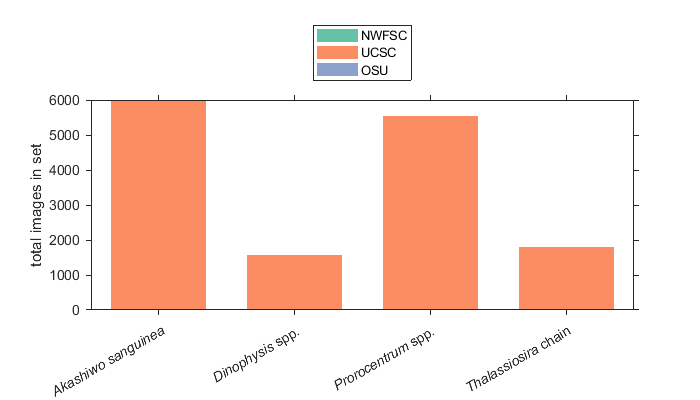
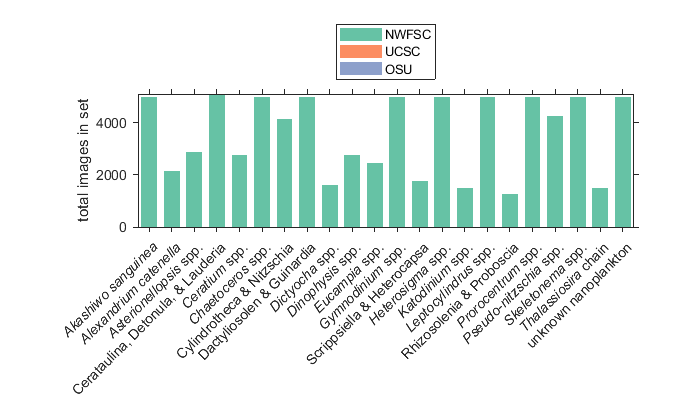
CCCS_NOAA_UCSC_OSU_v4

diff --git a/IFCB-Tools/build_classifier/train_build_classifier.m b/IFCB-Tools/build_classifier/train_build_classifier.m
@@ -3,7 +3,8 @@
 clear;
 filepath='C:\Users\ifcbuser\Documents\GitHub\';
 addpath(genpath(filepath));
-class2useName ='D:\general\config\class2use_12';
+%class2useName ='D:\general\config\class2use_12';
+class2useName ='D:\general\config\class2use_13';
 
 %% Step 1: create SCW and Shimada merged manual and feature file folders to pull from for training set
 mergedpath = 'D:\general\classifier\';
@@ -21,7 +22,7 @@ BUDDpath = 'D:\BuddInlet\';
 merge_manual_feafiles_SHMDA_UCSC_OSU_LAB_BUDD(class2useName,mergedpath,UCSCpath,OSUpath,SHMDApath,LABpath,BUDDpath)
 clearvars  mergedpath UCSCpath SHMDApath LABpath BUDDpath OSUpath;
 
-%% Step 2: select classes of interest and find class2skip
+% Step 2: select classes of interest and find class2skip
 % Regional CCS classifier
 load([filepath 'bloom-baby-bloom\NOAA\SeascapesProject\Data\seascape_topclasses'],'SS');
 [class2skip] = find_class2skip(class2useName,SS(end).topclasses);
@@ -46,7 +47,7 @@ class2skip(end+1)={'pennate'};
 % 
 % clearvars manualpath id
 
-%% Step 2: Compile features for the training set
+% Step 2: Compile features for the training set
 addpath(genpath('D:\general\classifier\'));
 addpath(genpath('C:\Users\ifcbuser\Documents\'));
 
@@ -55,11 +56,11 @@ feapath_base = 'D:\general\classifier\features_merged\'; %feature file location,
 outpath = 'D:\general\classifier\summary\'; % location to save training set
 maxn = 5000; %maximum number of images per class to include
 minn = 500; %minimum number for inclusion
-class2group={{'Pseudo-nitzschia' 'Pseudo-nitzschia_large_narrow' ...
-        'Pseudo-nitzschia_large_wide' 'Pseudo-nitzschia_small'}...
+class2group={{'Pseudo_nitzschia_small_1cell' 'Pseudo_nitzschia_large_1cell' 'Pseudo_nitzschia_large_2cell'...
+        'Pseudo_nitzschia_small_2cell' 'Pseudo_nitzschia_small_3cell' 'Pseudo_nitzschia_large_3cell'...
+        'Pseudo_nitzschia_small_4cell' 'Pseudo_nitzschia_large_4cell' 'Pseudo_nitzschia_small_5cell'...
+        'Pseudo_nitzschia_large_5cell' 'Pseudo_nitzschia_small_6cell' 'Pseudo_nitzschia_large_6cell'}...
         {'Chaetoceros_chain' 'Chaetoceros_single'}...
-        {'Guinardia' 'Dactyliosolen'}...
-        {'Detonula' 'Cerataulina' 'Lauderia'}...
         {'Cylindrotheca' 'Nitzschia'}...
         {'Rhizosolenia' 'Proboscia'}...
         {'Scrippsiella' 'Heterocapsa_triquetra'}...
@@ -69,14 +70,14 @@ class2group={{'Pseudo-nitzschia' 'Pseudo-nitzschia_large_narrow' ...
         'Dinophysis_fortii' 'Dinophysis_norvegica' 'Dinophysis_odiosa' ...
         'Dinophysis_parva' 'Dinophysis_rotundata' 'Dinophysis_tripos'}};  
 
-IFCB='NOAA'; %[]; %'OSU';
+IFCB=[]; %[]; %'NOAA'; %'OSU';
 
 %classifiername='BI_Dinophysis_GenusLevel_v4'; %separate Thalassiosira,
 %classifiername='BI_Dinophysis_GenusLevel_v4'; %separate Thalassiosira, Chaetoceros, no UCSC Dinophysis
 %classifiername='BI_Dinophysis_GenusLevel_v5'; %separate Thalassiosira, no UCSC Dinophysis
 %classifiername='BI_Dinophysis_GenusLevel_v6'; %separate Thalassiosira, only NOAA images
 %classifiername='CCS_group-PN-Ch_noCerataulinaBacteriastrum'; 
-classifiername='CCS_NOAA_v1';
+classifiername='CCS_NOAA_UCSC_OSU_v4';
 
 compile_train_features_NWFSC(manualpath,feapath_base,outpath,maxn,minn,classifiername,class2useName,class2skip,class2group,IFCB);
 addpath(genpath(outpath)); % add new data to search path

diff --git a/IFCB-Tools/convert_index_class/convert_classnum_UCSC2NWFSC.m b/IFCB-Tools/convert_index_class/convert_classnum_UCSC2NWFSC.m
@@ -9,8 +9,9 @@ function [ classnum ] = convert_classnum_UCSC2NWFSC( Z )
 % %test
 %Z=[63;33];
 
-UCSC_num = [33	71	73	34	72	49	85	70	65	2	63	3	54	35	58	24	31	36	86	4	94	64	82	67	37	5	62	80	26	74	77	25	55	38	95	52	59	6	76	7	8	53	9	27	39	40	75	10	11	60	12	13	66	28	14	90	84	61	68	15	41	16	51	17	93	32	83	42	78	18	81	43	44	92	45	19	46	47	30	50	20	56	29	89	21	22	91	87	88	48	23	69	1	79	96	57];
-NWFSC_num = [4	5	5	5	5	7	1	1	1	13	14	16	1	18	1	1	1	22	57	23	1	1	1	28	29	30	32	1	34	1	1	37	1	39	40	1	43	45	1	47	48	1	1	54	55	56	1	58	59	25	65	66	67	1	69	72	1	1	74	1	77	78	1	80	1	81	1	82	1	85	1	87	89	90	92	93	1	1	96	97	99	1	100	102	103	104	106	107	108	109	110	1	1	111	1	1];
+UCSC_num =	[33	71	73	34	72	49	85	70	65	2	63	3	54	35	58	24	31	36	86	4	94	64	82	67	37	5	62	80	26	74	77	25	55	38	95	52	59	6	76	7	8	53	9	27	39	40	75	10	11	60	12	13	66	28	14	90	84	61	68	15	41	16	51	17	93	32	83	42	78	18	81	43	44	92	45	19	46	47	30	50	20	56	29	89	21	22	91	87	88	48	23	69	1	79	96	57];
+NWFSC_num =	[4	5	5	5	5	1	1	1	1	13	14	16	1	18	1	1	1	22	57	23	1	1	1	28	29	30	32	1	34	1	1	1	1	39	40	1	43	45	1	47	48	1	1	1	55	56	1	58	59	25	65	66	67	1	69	72	1	1	74	1	77	78	1	80	1	81	1	82	1	85	1	87	89	90	92	93	1	1	96	97	99	1	100	102	103	104	106	107	108	109	110	1	1	111	1	1];
+
 classnum=changem(Z,NWFSC_num,UCSC_num);
 
 end

diff --git a/IFCB-Tools/extractblobfeat_applyclassifier.m b/IFCB-Tools/extractblobfeat_applyclassifier.m
@@ -5,16 +5,16 @@ clear;
 %%%% modify according to dataset
 %ifcbdir='D:\Shimada\'; 
 %ifcbdir='D:\BuddInlet\';
-%ifcbdir='D:\LabData\'; 
+ifcbdir='D:\LabData\'; 
 %ifcbdir='D:\SCW\'; 
-ifcbdir='D:\general\classifier\'; 
+%ifcbdir='D:\general\classifier\'; 
 
 summarydir='C:\Users\ifcbuser\Documents\GitHub\bloom-baby-bloom\IFCB-Data\Shimada\';
 %summarydir='C:\Users\ifcbuser\Documents\GitHub\bloom-baby-bloom\IFCB-Data\BuddInlet\';
 %summarydir='C:\Users\ifcbuser\Documents\GitHub\bloom-baby-bloom\IFCB-Data\UCSC\SCW\';
 %summarydir=[ifcbdir 'summary\'];
 
-yr='2022';
+yr='2023';
 
 addpath(genpath(summarydir));
 addpath(genpath(ifcbdir));
@@ -34,7 +34,7 @@ copy_data_into_folders([ifcbdir 'raw\'],[ifcbdir 'data\' yr '\']);
 start_blob_batch_user_training([ifcbdir 'data\' yr '\'],[ifcbdir 'blobs\' yr '\'],true);
 
 % Step 3: Extract features
-start_feature_batch_user_training([ifcbdir 'data\' yr '\'],[ifcbdir 'blobs\' yr '\'],[ifcbdir 'features\' yr '\'],false)
+start_feature_batch_user_training([ifcbdir 'data\' yr '\'],[ifcbdir 'blobs\' yr '\'],[ifcbdir 'features\' yr '\'],true)
 
 %% Step 4: Apply classifier
 start_classify_batch_user_training(classifier,[ifcbdir 'features\' yr '\'],[ifcbdir 'class\class' yr '_v1\']);

diff --git a/IFCB-Tools/convert_index_class/merge_manual_feafiles_SHMDA_UCSC_OSU_LAB_BUDD.m b/IFCB-Tools/convert_index_class/merge_manual_feafiles_SHMDA_UCSC_OSU_LAB_BUDD.m
@@ -6,7 +6,7 @@ function [] = merge_manual_feafiles_SHMDA_UCSC_OSU_LAB_BUDD(class2useName,merged
 %   Alexis D. Fischer, SHMDA NWFSC, September 2021
 
 % % Input path names
-% class2useName ='D:\general\config\class2use_11';
+% class2useName ='D:\general\config\class2use_13';
 % mergedpath = 'D:\general\classifier\';
 % UCSCpath = 'D:\SCW\';
 % OSUpath = 'D:\OSU\';

diff --git a/IFCB-Tools/plot_classifier_performance.m b/IFCB-Tools/plot_classifier_performance.m
@@ -1,6 +1,6 @@
 clear;
 Mac=0;
-name='CCS_NOAA_v1';
+name='CCS_NOAA_UCSC_OSU_v4';
 
 if Mac
     basepath = '~/Documents/MATLAB/bloom-baby-bloom/';    
